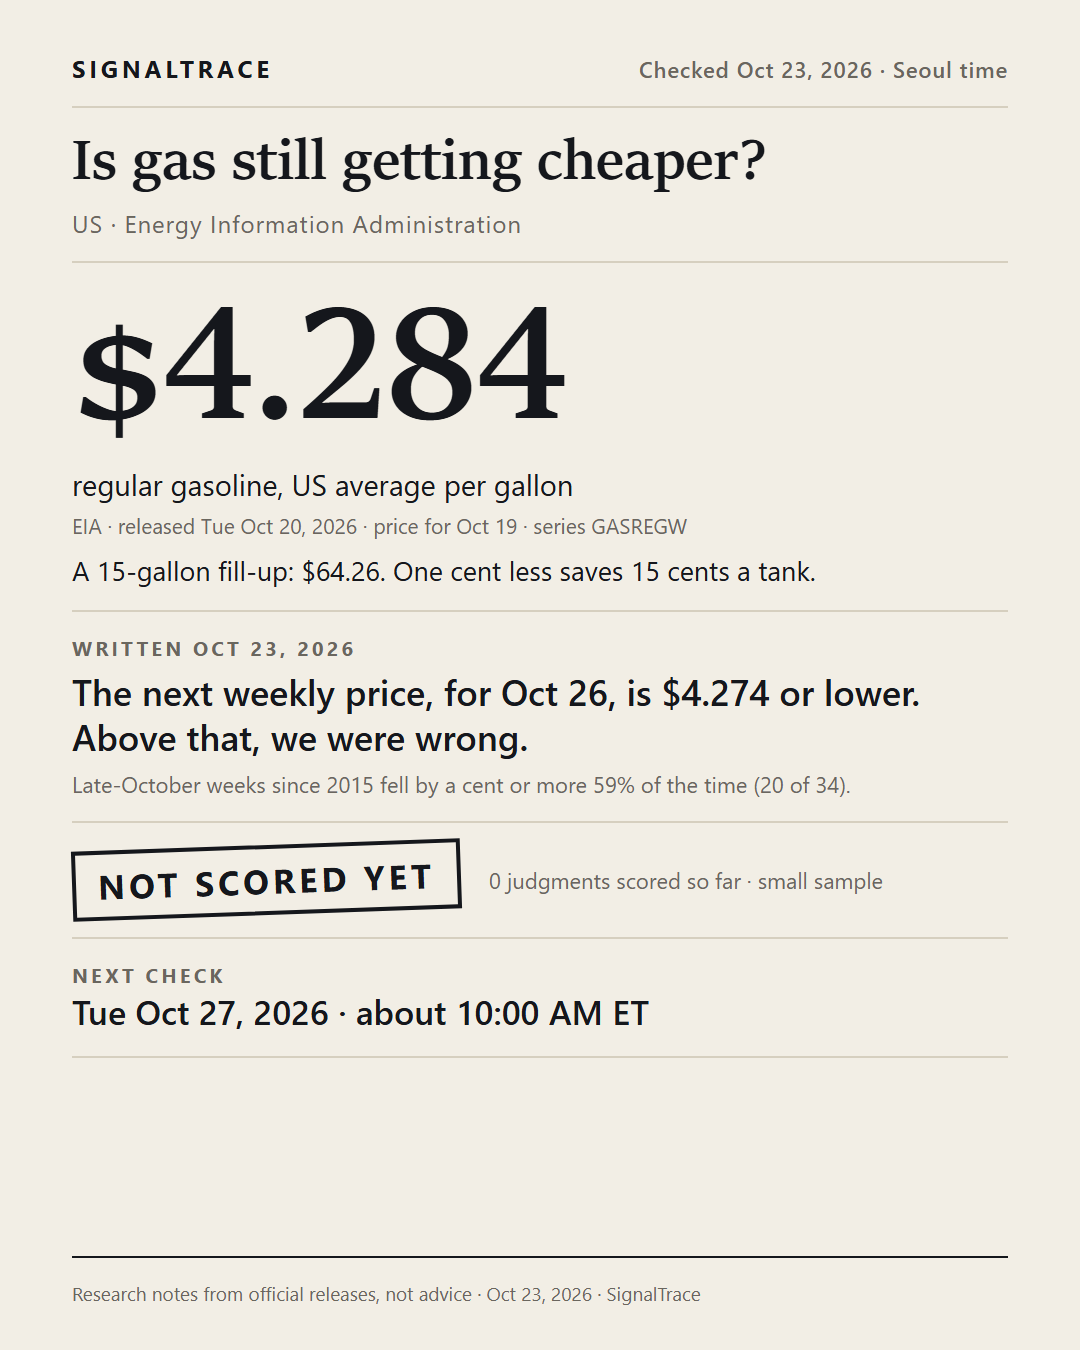
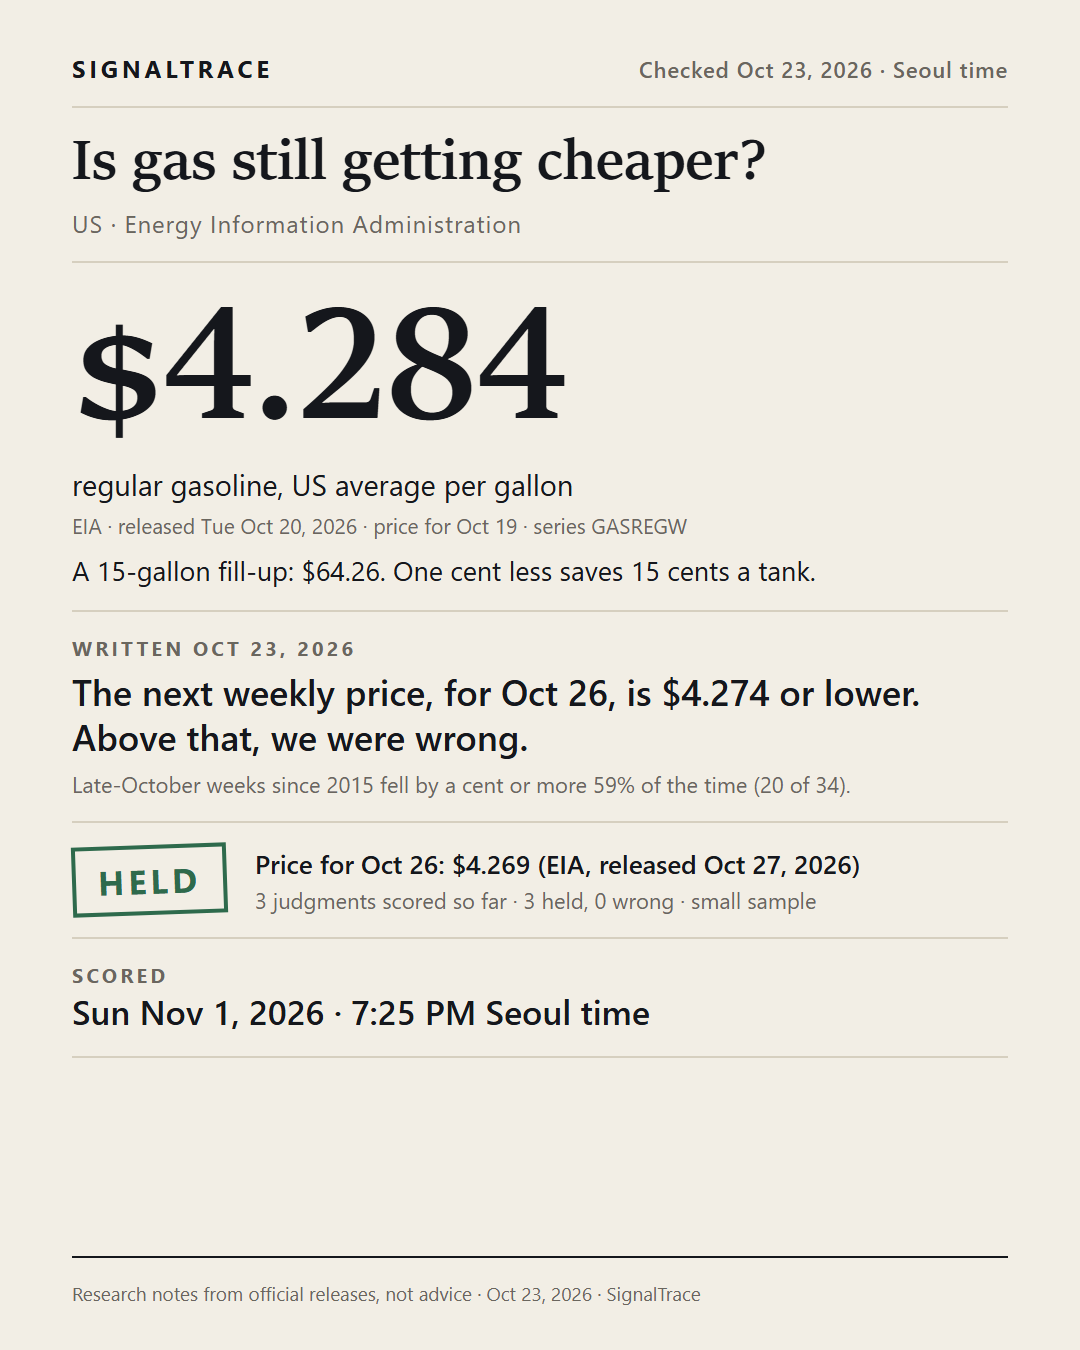
Scored: mortgage, jobless claims and gas all held (week of Oct 23, 2026)

Changed region(s): [[0.0611, 0.6222, 0.7944, 0.6844], [0.0611, 0.7156, 0.3056, 0.7778], [0.3361, 0.7156, 0.6111, 0.7778]]

diff --git a/receipts/2026-10-23/index.html b/receipts/2026-10-23/index.html
@@ -22,43 +22,46 @@ dd{margin:0}
 a{color:var(--link)}
 footer{margin-top:40px;padding-top:14px;border-top:1px solid var(--rule);color:var(--muted);font-size:.95rem}
 </style>
+<script async src="https://www.googletagmanager.com/gtag/js?id=G-NZTZCLB4E3"></script>
+<script>window.dataLayer=window.dataLayer||[];function gtag(){dataLayer.push(arguments)}gtag('js',new Date());gtag('config','G-NZTZCLB4E3');</script>
 </head>
 <body>
 <main>
 <p class="kicker">SIGNALTRACE · PRE-WRITTEN JUDGMENTS</p>
 <h1>Three judgments written before the data</h1>
 <p>Each judgment was written on Oct 23, 2026, before the official release it depends on. We score it from that release, add the result here, and do not edit the judgment. Research notes from official releases, not advice.</p>
-<p>Posted Oct 24, 2026, Seoul time. Saved copies: <a href="https://web.archive.org/web/*/https://jsymen1290.github.io/signaltrace/receipts/2026-10-23/">Internet Archive</a>. 0 judgments scored so far · small sample.</p>
+<p>Corrections: none so far. Posted Oct 24, 2026, Seoul time. Saved copies: <a href="https://web.archive.org/web/*/https://jsymen1290.github.io/signaltrace/receipts/2026-10-23/">Internet Archive</a>. 3 judgments scored so far · 3 held, 0 wrong · small sample.</p>
 <h2 id="mortgage">Did mortgage rates move enough to matter this week?</h2>
-<img src="mortgage.png" width="1080" height="1350" alt="Did mortgage rates move enough to matter this week? 7.32%, 30-year fixed mortgage rate, US average. Written Oct 23, 2026: The Oct 29 average stays between 7.22% and 7.42%. Outside that range, we were wrong. Not scored yet. Next check: Thu Oct 29, 2026 · 12:00 PM ET.">
+<img src="mortgage.png" width="1080" height="1350" alt="Did mortgage rates move enough to matter this week? 7.32%, 30-year fixed mortgage rate, US average. Written Oct 23, 2026: The Oct 29 average stays between 7.22% and 7.42%. Outside that range, we were wrong. Held. Oct 29 average: 7.24% (Freddie Mac, released Oct 29, 2026) Scored: Sun Nov 1, 2026 · 7:30 PM Seoul time.">
 <dl>
 <dt>Latest number</dt><dd>7.32%, 30-year fixed mortgage rate, US average</dd>
 <dt>Source</dt><dd><a href="https://www.freddiemac.com/pmms">Freddie Mac · released Thu Oct 22, 2026 · series MORTGAGE30US</a></dd>
 <dt>Written Oct 23, 2026</dt><dd>The Oct 29 average stays between 7.22% and 7.42%. Outside that range, we were wrong.</dd>
 <dt>Base rate</dt><dd>Moves this small happened in 79% of the past 156 weeks.</dd>
-<dt>Result</dt><dd>Not scored yet</dd>
-<dt>Next check</dt><dd>Thu Oct 29, 2026 · 12:00 PM ET</dd>
+<dt>Result</dt><dd>Held. Oct 29 average: 7.24% (Freddie Mac, released Oct 29, 2026)</dd>
+<dt>Scored</dt><dd>Sun Nov 1, 2026 · 7:30 PM Seoul time</dd>
 </dl>
 <h2 id="layoffs">Are layoffs picking up?</h2>
-<img src="layoffs.png" width="1080" height="1350" alt="Are layoffs picking up? 194,000, first-time jobless claims, seasonally adjusted. Written Oct 23, 2026: Claims for the week ending Oct 24 stay below 208,000 in the first release. At 208,000 or more, we were wrong. Not scored yet. Next check: Thu Oct 29, 2026 · 8:30 AM ET (usual Thursday release).">
+<img src="layoffs.png" width="1080" height="1350" alt="Are layoffs picking up? 194,000, first-time jobless claims, seasonally adjusted. Written Oct 23, 2026: Claims for the week ending Oct 24 stay below 208,000 in the first release. At 208,000 or more, we were wrong. Held. Advance figure, week ending Oct 24: 194,000 (Labor Department, released Oct 29, 2026); read via FRED ICSA, DOL PDF blocked Scored: Sun Nov 1, 2026 · 8:30 PM Seoul time.">
 <dl>
 <dt>Latest number</dt><dd>194,000, first-time jobless claims, seasonally adjusted</dd>
 <dt>Source</dt><dd><a href="https://www.dol.gov/ui/data.pdf">Labor Department · released Thu Oct 22, 2026 · week ending Oct 17 · series ICSA</a></dd>
 <dt>Written Oct 23, 2026</dt><dd>Claims for the week ending Oct 24 stay below 208,000 in the first release. At 208,000 or more, we were wrong.</dd>
 <dt>Base rate</dt><dd>Weeks no more than 10,000 above the 4-week average: 86% of the past 156.</dd>
-<dt>Result</dt><dd>Not scored yet</dd>
-<dt>Next check</dt><dd>Thu Oct 29, 2026 · 8:30 AM ET (usual Thursday release)</dd>
+<dt>Result</dt><dd>Held. Advance figure, week ending Oct 24: 194,000 (Labor Department, released Oct 29, 2026); read via FRED ICSA, DOL PDF blocked</dd>
+<dt>Scored</dt><dd>Sun Nov 1, 2026 · 8:30 PM Seoul time</dd>
 </dl>
 <h2 id="gas">Is gas still getting cheaper?</h2>
-<img src="gas.png" width="1080" height="1350" alt="Is gas still getting cheaper? $4.284, regular gasoline, US average per gallon. Written Oct 23, 2026: The next weekly price, for Oct 26, is $4.274 or lower. Above that, we were wrong. Not scored yet. Next check: Tue Oct 27, 2026 · about 10:00 AM ET.">
+<img src="gas.png" width="1080" height="1350" alt="Is gas still getting cheaper? $4.284, regular gasoline, US average per gallon. Written Oct 23, 2026: The next weekly price, for Oct 26, is $4.274 or lower. Above that, we were wrong. Held. Price for Oct 26: $4.269 (EIA, released Oct 27, 2026) Scored: Sun Nov 1, 2026 · 7:25 PM Seoul time.">
 <dl>
 <dt>Latest number</dt><dd>$4.284, regular gasoline, US average per gallon</dd>
 <dt>Source</dt><dd><a href="https://www.eia.gov/petroleum/gasdiesel/">EIA · released Tue Oct 20, 2026 · price for Oct 19 · series GASREGW</a></dd>
 <dt>Written Oct 23, 2026</dt><dd>The next weekly price, for Oct 26, is $4.274 or lower. Above that, we were wrong.</dd>
 <dt>Base rate</dt><dd>Late-October weeks since 2015 fell by a cent or more 59% of the time (20 of 34).</dd>
-<dt>Result</dt><dd>Not scored yet</dd>
-<dt>Next check</dt><dd>Tue Oct 27, 2026 · about 10:00 AM ET</dd>
+<dt>Result</dt><dd>Held. Price for Oct 26: $4.269 (EIA, released Oct 27, 2026)</dd>
+<dt>Scored</dt><dd>Sun Nov 1, 2026 · 7:25 PM Seoul time</dd>
 </dl>
+<p>Want each scored result? Reply under our X post or send a DM: <a href="https://x.com/SignalTraceLab">@SignalTraceLab</a>. We reply once per result.</p>
 <footer>Research notes from official releases, not advice · Oct 23, 2026 · SignalTrace · <a href="../../">Home</a> · <a href="../../privacy.html">Privacy policy</a></footer>
 </main>
 </body>
